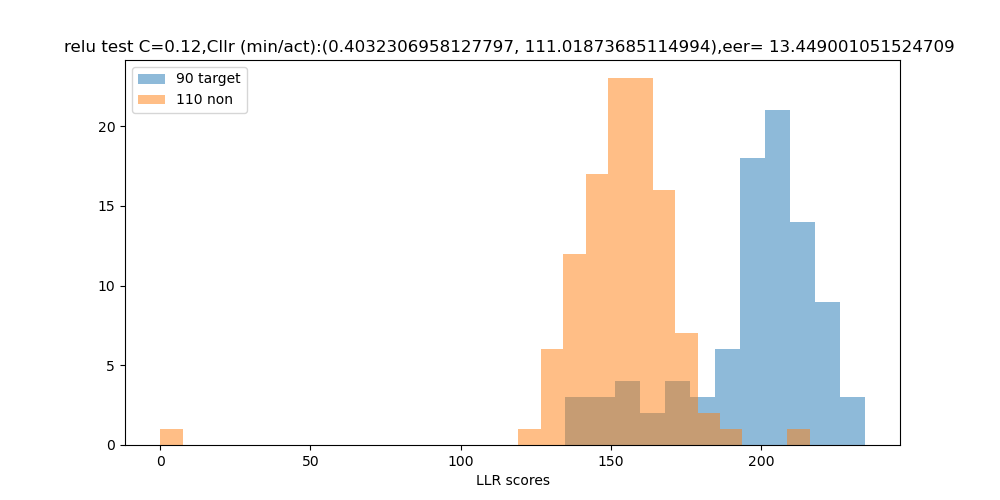
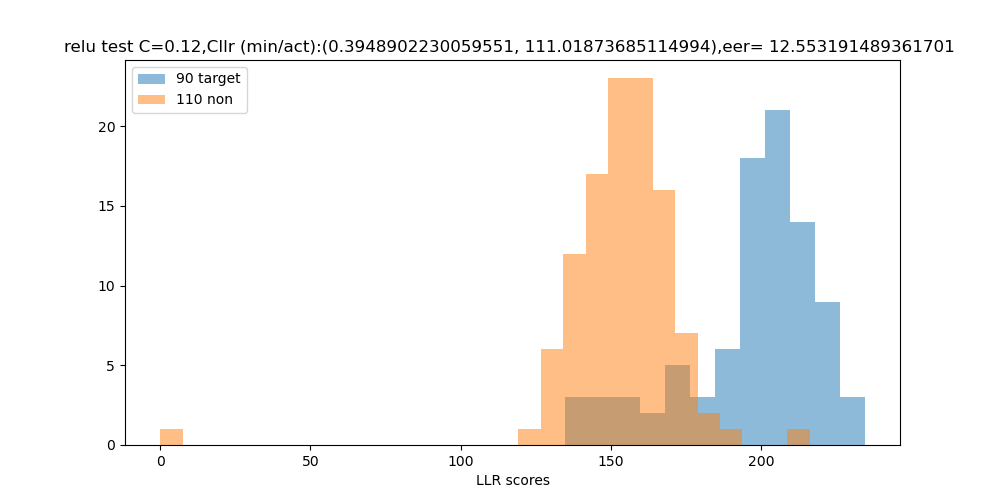
update of predict function

Changed region(s): [[0.341, 0.06, 0.527, 0.12], [0.775, 0.06, 0.93, 0.12], [0.62, 0.72, 0.713, 0.81]]

diff --git a/BA_params-modified.py b/BA_params-modified.py
@@ -332,10 +332,7 @@ def predict(utt1, utt2):
     couple = (utt1, utt2)
     couple_index = tar.index(couple)
     llr_target_for_couple = LLR_target[couple_index]
-    llr_non_for_couple = LLR_non[couple_index]
-    # print("llr_target_for_couple", llr_target_for_couple)
-    # print("llr_non_for_couple", llr_non_for_couple)
-    if llr_target_for_couple > llr_non_for_couple:
+    if llr_target_for_couple > 180:
         return 1
     else:
         return 0
@@ -356,8 +353,8 @@ def do_edit(vector):
 
 def generate_counterfactual(utt, couple, dout, typ, tar, non):
     llr_target_for_couple = 100000
-    llr_non_for_couple = 0
-    while llr_target_for_couple > llr_non_for_couple:
+
+    while llr_target_for_couple > 180:
         vector1 = np.array(list(utt[couple[0]].values()))
         vector2 = np.array(list(utt[couple[1]].values()))
 
@@ -376,11 +373,8 @@ def generate_counterfactual(utt, couple, dout, typ, tar, non):
                                                                                              [0.12])
         couple_index = tar.index(couple)
         llr_target_for_couple = LLR_target[couple_index]
-        llr_non_for_couple = LLR_non[couple_index]
 
         print("llr_target_for_couple_counterfactual", llr_target_for_couple)
-        print("llr_non_for_couple_counterfactual", llr_non_for_couple)
-
         print("new predict", predict(couple[0], couple[1]))
 
 
@@ -478,7 +472,8 @@ if __name__ == "__main__":
 
     # Access the LLR scores for the specified couple in 'LLR_target'
     llr_target_for_couple = LLR_target[couple_index]
-    llr_non_for_couple = LLR_non[couple_index]
+
+    print(llr_target_for_couple)
 
     print(predict(couple_to_print[0], couple_to_print[1]))
 
@@ -492,4 +487,3 @@ if __name__ == "__main__":
 
     # Print the LLR scores
     print(f"LLR target for couple {couple_to_print}: {llr_target_for_couple}")
-    print(f"LLR non for couple {couple_to_print}: {llr_non_for_couple}")
